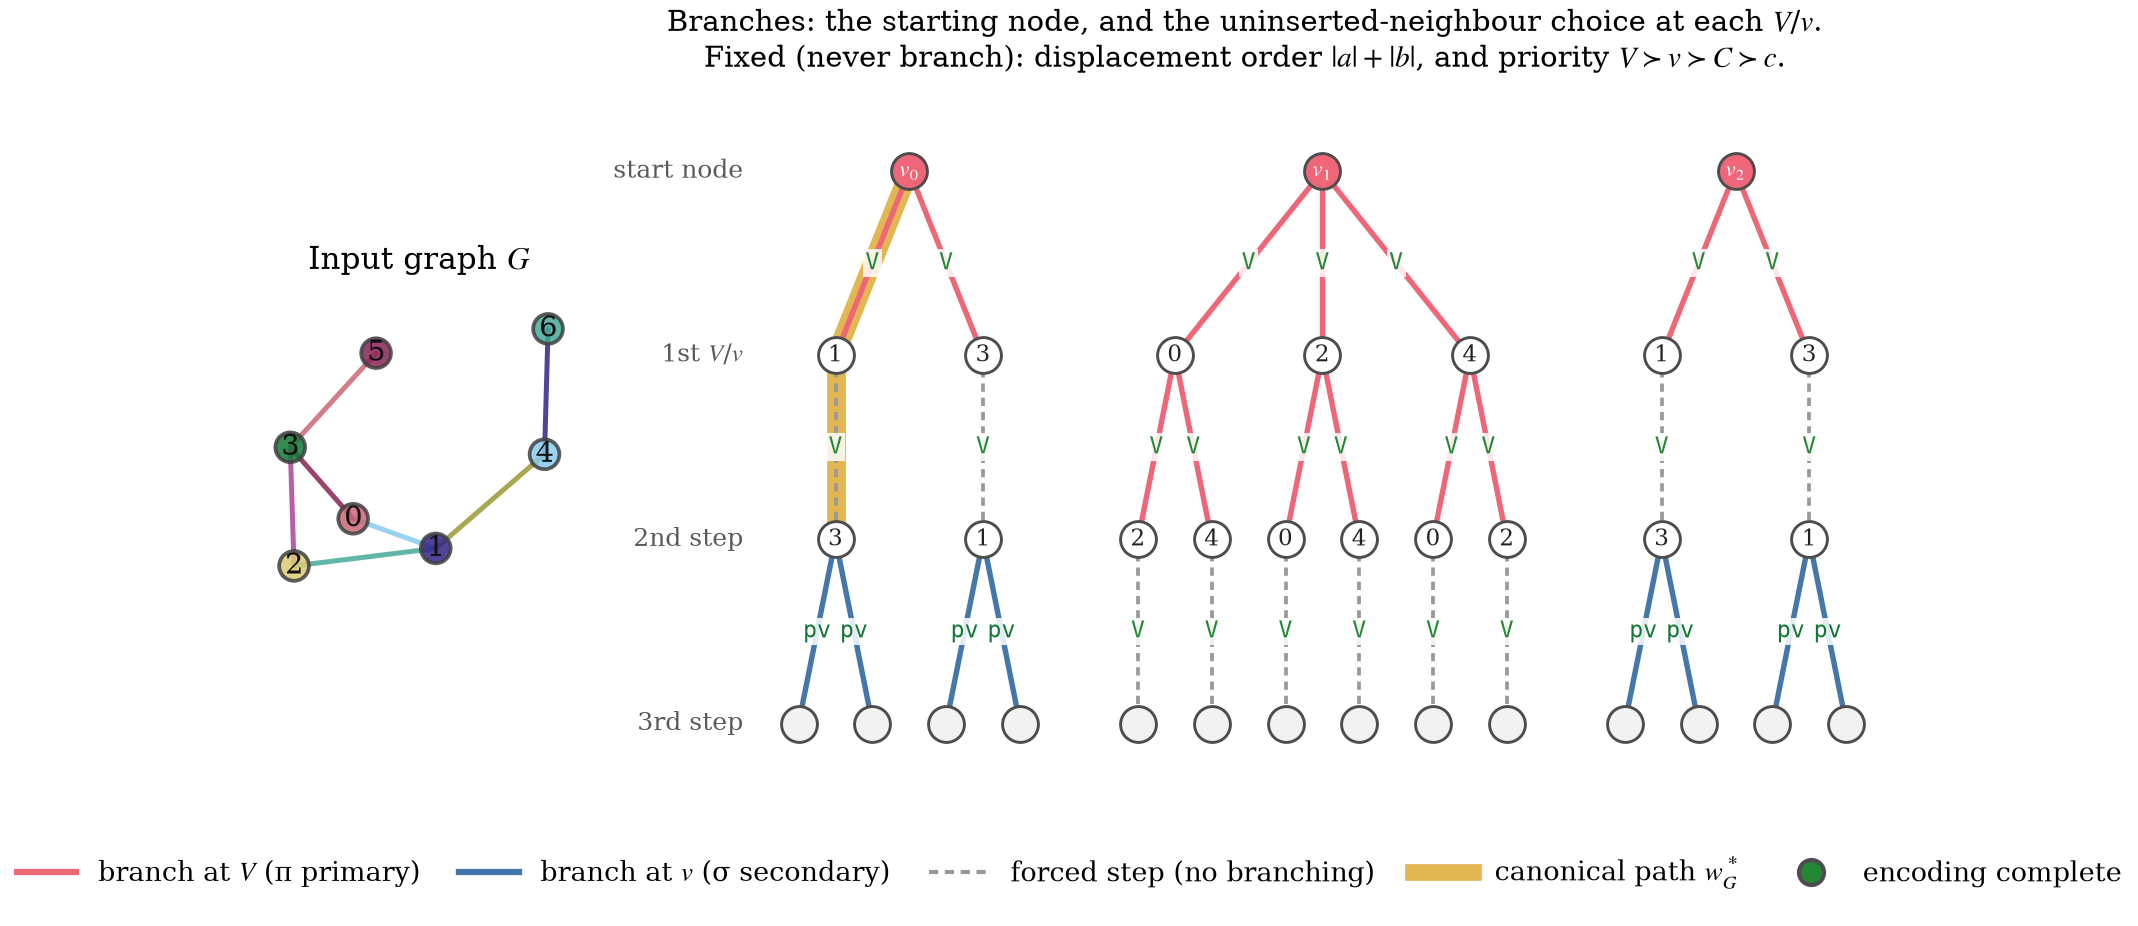
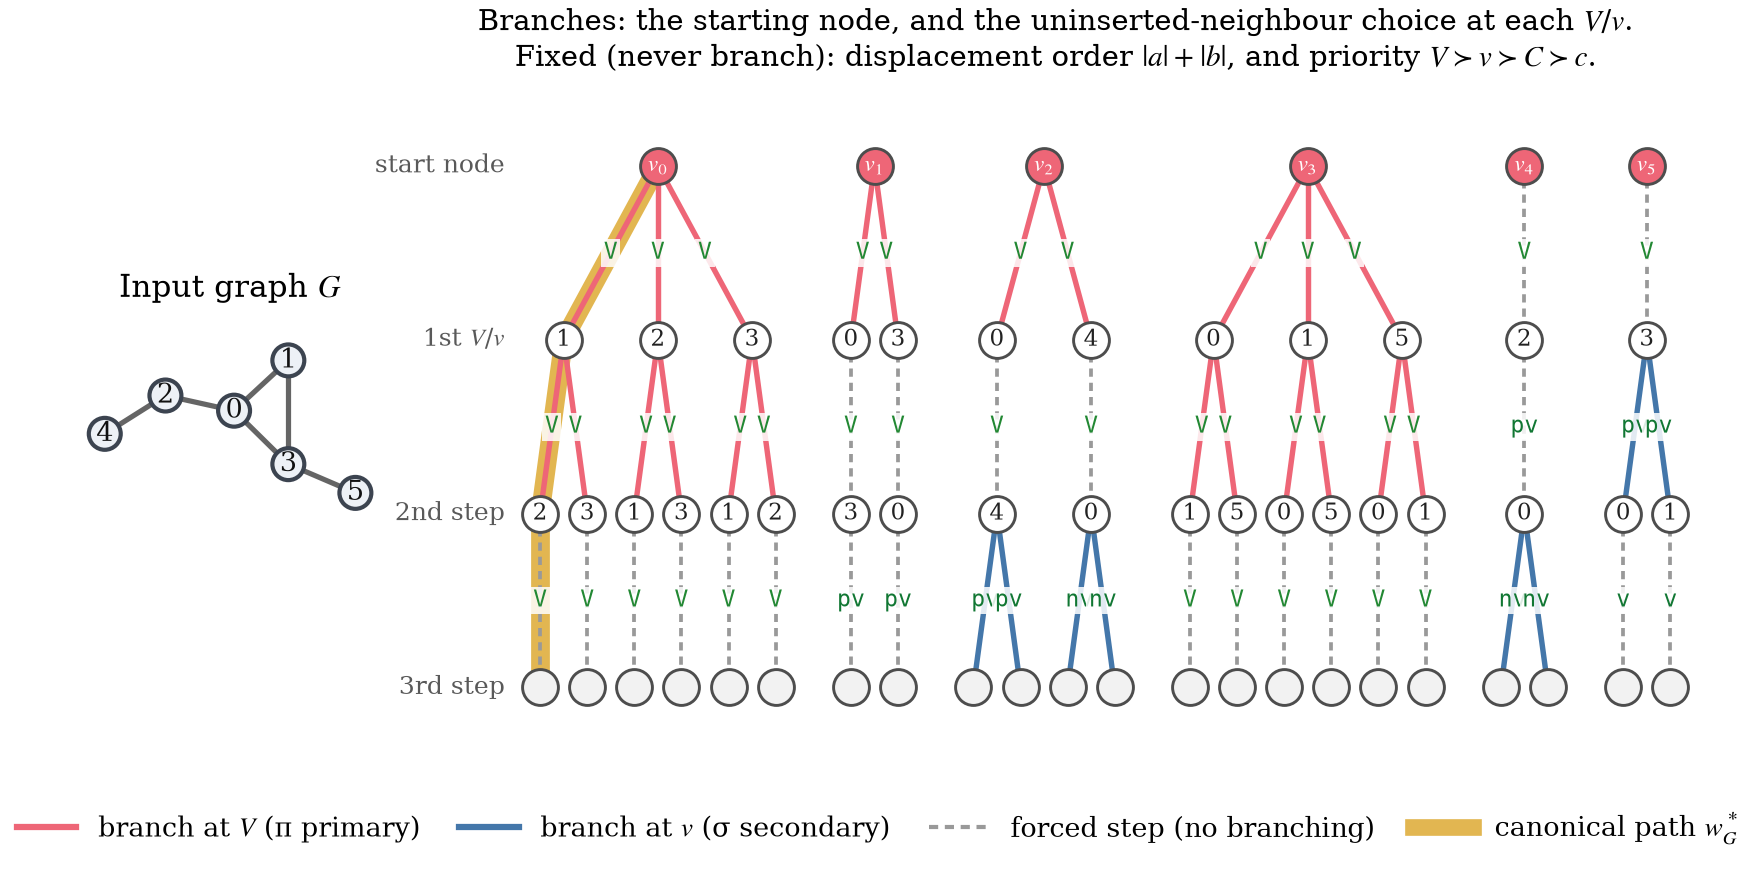
fix(T-09): ghosting is a conservation argument, not a fill
Both panels filled in, which made the encoder panel show a decoder. Ink
now moves between the strip and the graph in the direction the algorithm
runs: S2G drains the strip and fills the graph, G2S drains the graph and
fills the strip. Each panel shows one representation emptying into the
other, and the two run opposite -- which is the round trip, visible
rather than asserted.

The G2S graph panel therefore draws what is NOT yet encoded. Test asserts
the monotonicity in both directions and the two endpoints, so the mask
cannot be inverted again without a failure.

Suite re-measured at close: 2,583 passed / 321 skipped, 9 min 18 s.

diff --git a/src/isalgraph/viz/worked_example.py b/src/isalgraph/viz/worked_example.py
@@ -35,14 +35,27 @@ encoder, so its states are the S2G panel's with the grey mask flipped.
 :mod:`isalgraph.viz.encoder_trace` exists to avoid exactly that, and is
 pinned to the frozen encoder by test.
 
-Three element states, not two
------------------------------
-``composite`` ghosts with a filled grey disc. These figures use the
-sibling projects' convention instead: a ghost is a **white** disc with a
-dashed grey outline, so it recedes by carrying no ink rather than by
-carrying grey ink; the element the current step created carries an accent
-halo; and both directions **fill in** rather than one filling and one
-emptying, so the two panels are read the same way.
+Ghosting is a conservation argument
+-----------------------------------
+Ink is conserved between the strip and the graph, and the direction of
+the transfer is the direction of the algorithm:
+
+* **S2G** turns a string into a graph. The strip starts solid and empties
+  as symbols are consumed; the graph starts ghosted and fills in.
+* **G2S** turns a graph into a string. The graph starts solid and empties
+  as structure is captured; the strip starts ghosted and fills in.
+
+So each panel shows one thing draining and the other filling, and the two
+panels run in opposite directions. That is the property worth showing --
+the round trip -- and a reader can check it at a glance instead of being
+told. Inverting it, so both panels fill in, makes the two figures look
+like the same algorithm drawn twice.
+
+A ghost is a **white** disc with a dashed grey outline, the sibling
+projects' convention: it recedes by carrying no ink rather than by
+carrying grey ink, which is what survives at column scale. The element
+the current step moved between the two representations carries an accent
+halo in both.
 """
 
 from __future__ import annotations
@@ -167,6 +180,10 @@ class ExampleColumn:
         accent_nodes: Graph nodes carrying the created-this-step halo.
         accent_edges: Graph edges drawn in the accent colour.
         ring_accent: Ring payload created this step, if any.
+        strip_solid_side: ``"suffix"`` for S2G, whose strip drains as
+            symbols are consumed, and ``"prefix"`` for G2S, whose strip
+            fills as they are emitted. Paired with the graph panel's own
+            direction, this is what makes the ink conservation visible.
         caption: Up to two short lines drawn under the column.
     """
 
@@ -181,6 +198,7 @@ class ExampleColumn:
     accent_nodes: frozenset[NodeId] = frozenset()
     accent_edges: frozenset[Edge] = frozenset()
     ring_accent: NodeId | None = None
+    strip_solid_side: str = "prefix"
     caption: tuple[str, ...] = field(default_factory=tuple)
 
 
@@ -400,7 +418,7 @@ def draw_columns(
             fig.add_subplot(sub[2]),
             instructions,
             current_idx=column.consumed,
-            solid_side="prefix",
+            solid_side=column.strip_solid_side,
             executing_span=column.span,
             axis_width_inches=lay.fig_width / len(columns),
         )
@@ -540,6 +558,7 @@ def s2g_columns(
                 accent_nodes=accent_nodes,
                 accent_edges=frozenset(edge for _, edge in created),
                 ring_accent=max(accent_nodes) if accent_nodes else None,
+                strip_solid_side="suffix",
                 caption=(
                     _s2g_effect(trace.snapshots, lo, hi),
                     _pointer_line(snap.primary_node, snap.secondary_node),
@@ -578,6 +597,11 @@ def _g2s_effect_line(iteration: EncoderIteration) -> str:
 def g2s_columns(trace: EncoderTrace) -> tuple[ExampleColumn, ...]:
     """Reduce an encoder trace to one column per outer-loop pass.
 
+    The graph panel shows what is **not yet** encoded, which is the
+    inverse of the S2G panel's rule. G2S consumes the graph and produces
+    the string, so the graph is what drains; drawing the captured part
+    solid instead would make the encoder look like a decoder.
+
     Args:
         trace: The instrumented encoder trace.
 
@@ -585,6 +609,8 @@ def g2s_columns(trace: EncoderTrace) -> tuple[ExampleColumn, ...]:
         One column per iteration.
     """
     spans = group_spans(trace.groups)
+    all_nodes = frozenset(range(trace.graph.node_count()))
+    all_edges = frozenset(graph_edges(trace.graph))
     columns: list[ExampleColumn] = []
     for iteration, (lo, hi) in zip(trace.iterations, spans, strict=True):
         created_node = iteration.created_node
@@ -596,8 +622,8 @@ def g2s_columns(trace: EncoderTrace) -> tuple[ExampleColumn, ...]:
                 secondary=iteration.secondary_after,
                 consumed=hi,
                 span=(lo, hi),
-                present_nodes=frozenset(iteration.captured_nodes_after),
-                present_edges=frozenset(iteration.captured_edges_after),
+                present_nodes=all_nodes - frozenset(iteration.captured_nodes_after),
+                present_edges=all_edges - frozenset(iteration.captured_edges_after),
                 accent_nodes=frozenset() if created_node is None else frozenset({created_node}),
                 accent_edges=(
                     frozenset()
@@ -605,6 +631,7 @@ def g2s_columns(trace: EncoderTrace) -> tuple[ExampleColumn, ...]:
                     else frozenset({iteration.created_edge})
                 ),
                 ring_accent=created_node,
+                strip_solid_side="prefix",
                 caption=(_g2s_search_line(iteration), _g2s_effect_line(iteration)),
             )
         )

diff --git a/tests/viz/test_worked_example.py b/tests/viz/test_worked_example.py
@@ -159,15 +159,35 @@ def test_both_panels_produce_the_same_columns(instructions: str) -> None:
 
 
 @pytest.mark.parametrize("instructions", _BOTH_STRINGS)
-def test_columns_end_on_the_complete_structure(instructions: str) -> None:
-    """The last column of either panel has nothing ghosted left."""
+def test_the_two_panels_drain_in_opposite_directions(instructions: str) -> None:
+    """Ink is conserved, and each panel moves it the way its algorithm does.
+
+    S2G ends with the graph complete and the strip spent; G2S ends with
+    the strip complete and the graph spent. Getting this backwards is not
+    a cosmetic error -- it makes the encoder panel show a decoder, which
+    is what the first draft of these figures did.
+    """
     encoder = trace_execution(build_example_graph(), instructions)
     _, trace = decode_trace(instructions)
-    for columns in (s2g_columns(trace, encoder.groups), g2s_columns(encoder)):
-        last = columns[-1]
-        assert len(last.present_nodes) == RUNNING_EXAMPLE_N_NODES
-        assert len(last.present_edges) == len(RUNNING_EXAMPLE_EDGES)
-        assert last.consumed == len(instructions)
+
+    s2g = s2g_columns(trace, encoder.groups)
+    assert s2g[0].strip_solid_side == "suffix"
+    assert len(s2g[-1].present_nodes) == RUNNING_EXAMPLE_N_NODES
+    assert len(s2g[-1].present_edges) == len(RUNNING_EXAMPLE_EDGES)
+    for earlier, later in zip(s2g, s2g[1:], strict=False):
+        assert earlier.present_nodes <= later.present_nodes
+        assert earlier.present_edges <= later.present_edges
+
+    g2s = g2s_columns(encoder)
+    assert g2s[0].strip_solid_side == "prefix"
+    assert g2s[-1].present_nodes == frozenset()
+    assert g2s[-1].present_edges == frozenset()
+    for earlier, later in zip(g2s, g2s[1:], strict=False):
+        assert later.present_nodes <= earlier.present_nodes
+        assert later.present_edges <= earlier.present_edges
+
+    for columns in (s2g, g2s):
+        assert columns[-1].consumed == len(instructions)
 
 
 def test_columns_reject_groups_that_do_not_span_the_string() -> None:

diff --git a/src/isalgraph/viz/README.md b/src/isalgraph/viz/README.md
@@ -78,7 +78,9 @@ Two further decisions worth knowing:
 ### Composites
 
 `composite.draw_column`, `single_card_figure`, `steps_figure`,
-`roundtrip_figure`; and `search_tree.canonical_search_tree_figure`.
+`roundtrip_figure`; `search_tree.canonical_search_tree_figure`; and the
+two manuscript panels, `worked_example.s2g_worked_example_figure` /
+`g2s_worked_example_figure`.
 
 Palettes are built once per figure from the final graph, and the layout is
 pinned by threading each column's returned layout into the next, so nodes
@@ -173,6 +175,61 @@ Two further rules:
 For a standalone card the progress mask conveys nothing, so
 `single_card_figure(..., color_whole_string=True)` (the default) colours
 every cell.
+
+## The two worked-example panels
+
+`worked_example` builds the S2G and G2S panels the manuscript lost --
+`fig_algorithm_overview.pdf` is still in the article source, commented
+out at `methodology.tex:379` with the note *"Figure commented out to
+meet the 35-page limit"*. Four decisions carry them.
+
+**One index for both.** S2G consumes one symbol per step; G2S emits a
+whole *group* per pass of its outer loop. Indexed by their own units the
+two panels would have different column counts and nothing to compare, so
+both are indexed by the **encoder's group boundaries**. For the running
+example that is `V | V | V | nv | PC | PV` -- six columns, no step
+omitted from either.
+
+**One renderer.** `draw_columns` is the only function that lays anything
+out. Both builders reduce their trace to a tuple of `ExampleColumn`, so
+the panels are identical in geometry by construction rather than by two
+builders being kept in step.
+
+**Ghosting is a conservation argument.** Ink moves between the strip and
+the graph in the direction the algorithm runs:
+
+| | strip | graph |
+|---|---|---|
+| **S2G** | starts solid, drains | starts ghosted, fills |
+| **G2S** | starts ghosted, fills | starts solid, drains |
+
+Making both panels fill in -- which the first draft did -- is what makes
+the two figures look like the same algorithm drawn twice. A ghost is a
+white disc with a dashed grey outline (the `IsalSR` idiom), so it
+recedes by carrying no ink rather than grey ink; the element the step
+moved between representations carries an accent halo in both panels.
+
+**The G2S panel is built from the encoder, not from a replay.** See the
+next section.
+
+## `encoder_trace`: what the G2S panel is drawn from
+
+`GraphToString.run_with_trace` replays the finished string, so a panel
+built from it is the S2G panel with its mask flipped. `encoder_trace`
+re-runs the encoder loop with the rejected displacement pairs recorded,
+in input-graph node ids.
+
+`core/graph_to_string.py` is frozen, so this is a mirror, and a mirror's
+hazard is drift. `tests/viz/test_encoder_trace.py` pins it: the mirror's
+string must equal `GraphToString`'s byte for byte, exhaustively on small
+graphs and on random larger and directed ones. Out of band it was checked
+on **134,609 `(graph, start)` pairs to n = 14, with zero mismatches**.
+
+`trace_execution(graph, target)` recovers the execution behind a *given*
+string by branching only on the uninserted-neighbour choice at `V`/`v` --
+the only freedom an execution has (Remark 2.7). That is what lets the
+**pruned** canonical string be drawn with the same encoder-side detail as
+the greedy one: no greedy run emits it.
 
 ## Canonical search tree
 

diff --git a/.claude/CLAUDE.md b/.claude/CLAUDE.md
@@ -82,8 +82,10 @@ $PY -m pip install -e ".[dev,native]"     # builds the extension
 | `$PY -m mypy src/isalgraph/` | Type check (strict) |
 | `$PY -m isalgraph.viz` | Regenerate `docs/figures/` |
 
-**Reference state (measured 2026-08-24, T-06 close):** **2,550 passed / 321 skipped**
-with the engine. A change that lowers either number needs an explanation.
+**Reference state (measured 2026-08-25, T-09 close):** **2,583 passed / 321 skipped**
+with the engine, in 9 min 18 s. A change that lowers either number needs an explanation.
+T-09 added 33: `tests/viz/test_encoder_trace.py` (12) and `tests/viz/test_worked_example.py`
+(21). `testpaths = ["tests"]`, so unrelated work under `benchmarks/` cannot move this figure.
 
 > ⚠ **This figure was stale by ~3.5× until 2026-08-24.** It read *"726 passed /
 > 271 skipped (integration of wave 2026-08-10)"* while the suite had grown across
